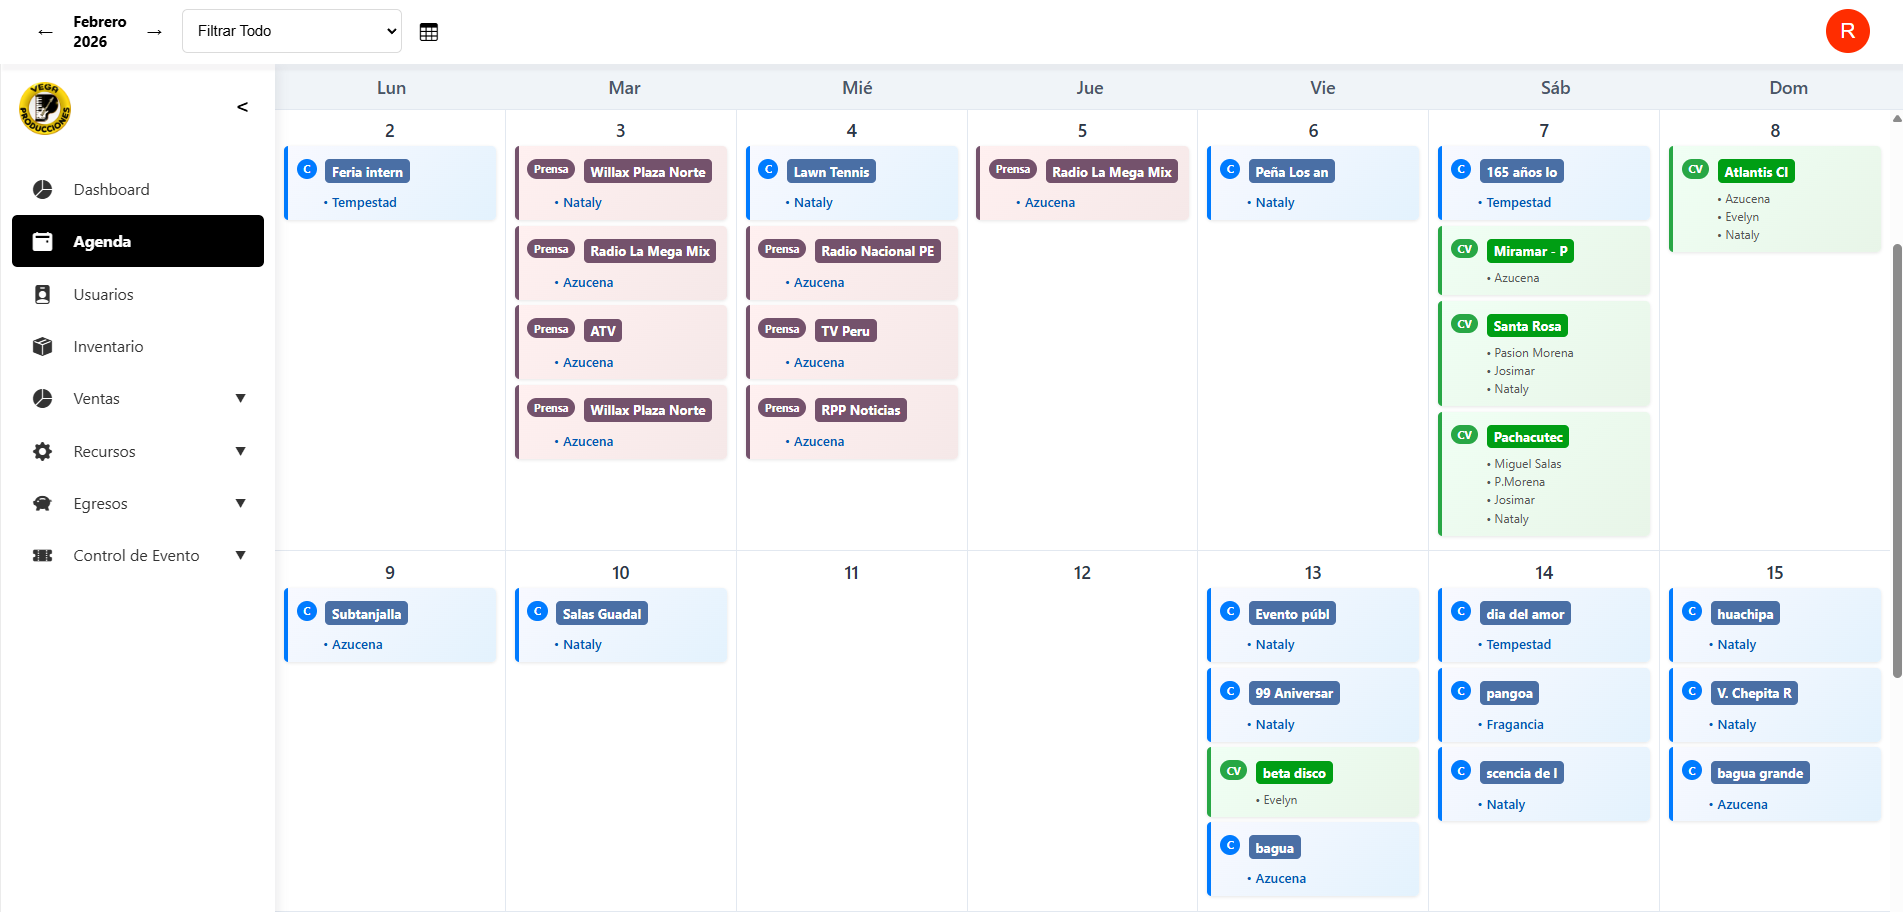
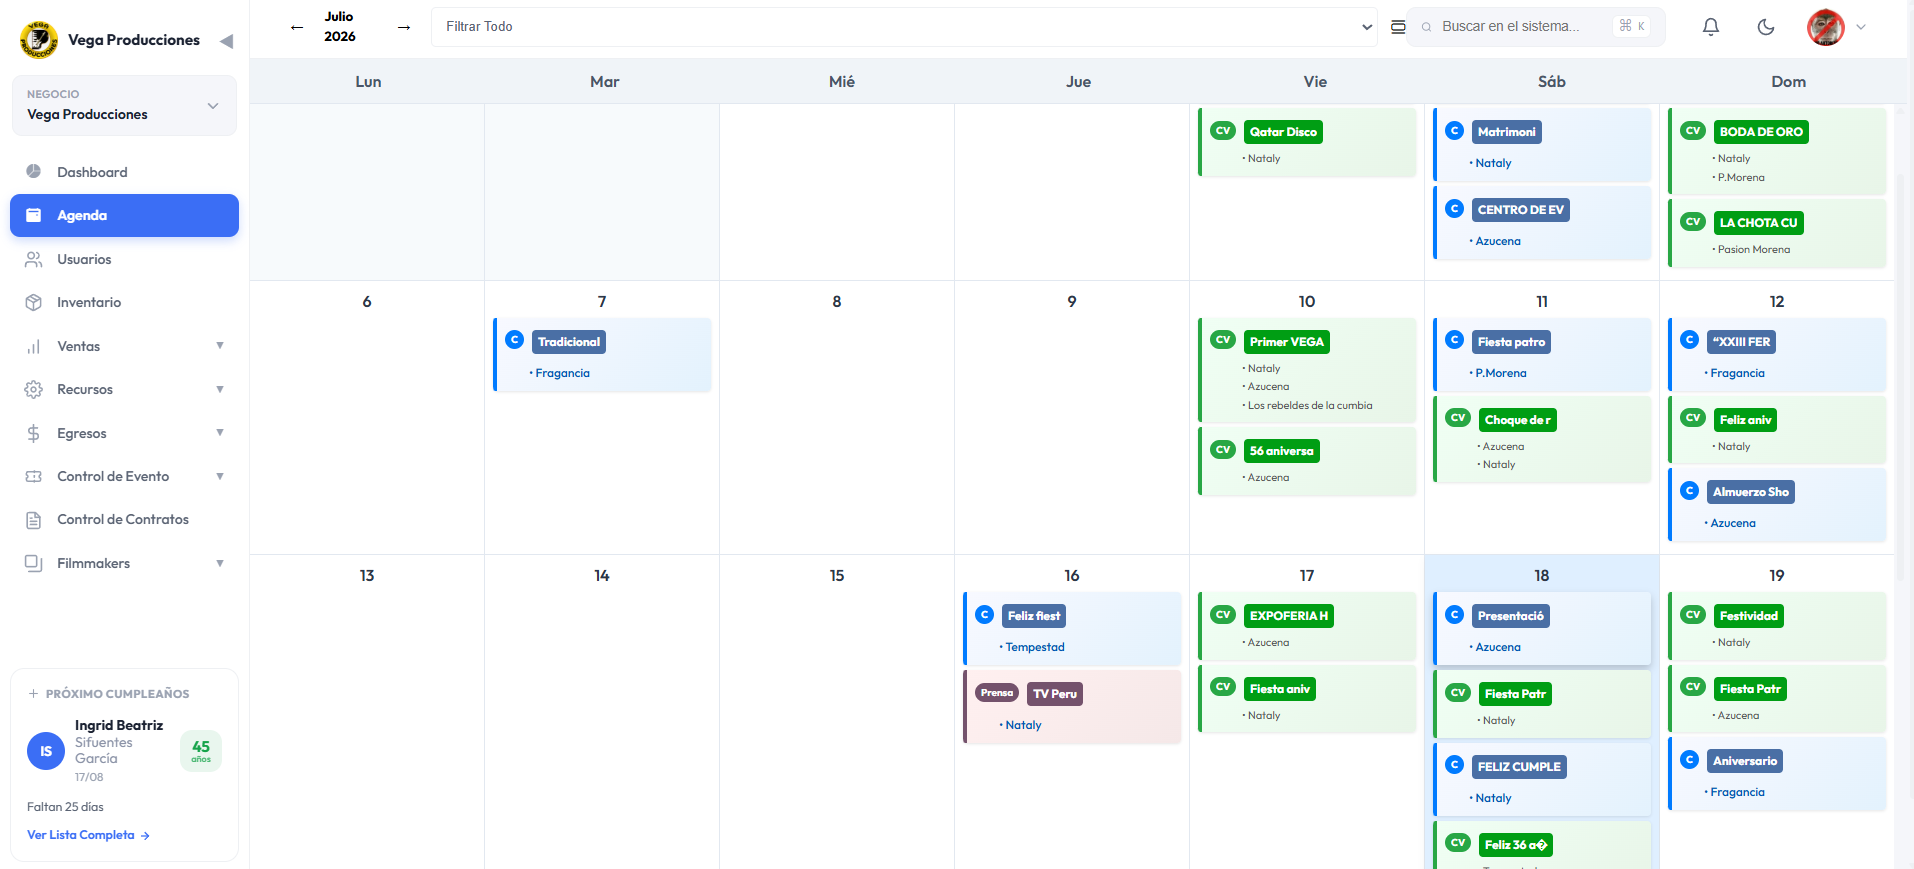
cambios!

diff --git a/index.html b/index.html
@@ -417,7 +417,7 @@
           <div class="proj-tags"><span class="proj-tag pt-php">PHP</span><span class="proj-tag pt-mysql">MySQL</span><span class="proj-tag pt-html">HTML</span><span class="proj-tag pt-css">CSS</span></div>
           <div class="proj-title">Intranet Vega Producciones</div>
           <p class="proj-desc">Intranet para gestión de eventos, con generador de contratos, cotizaciones y una agenda.</p>
-          <div class="proj-footer"><a href="https://vegaproducciones.com" target="_blank" class="proj-link">Ver proyecto →</a><span class="proj-solo-badge">solo</span></div>
+          <div class="proj-footer"><a href="https://vegaproducciones.com/v3/agenda.php" target="_blank" class="proj-link">Ver proyecto →</a><span class="proj-solo-badge">solo</span></div>
         </div>
       </div>
       <div class="proj-card">
@@ -450,7 +450,7 @@
           <div class="proj-tags"><span class="proj-tag pt-php">PHP</span><span class="proj-tag pt-mysql">Mysql</span><span class="proj-tag pt-html">HTML</span><span class="proj-tag pt-css">CSS</span></div>
           <div class="proj-title">Sistema de entradas eventos</div>
           <p class="proj-desc">Aplicación web para vender entradas para eventos de cumbia, salsa, etc.</p>
-          <div class="proj-footer"><a href="https://freedatabase.netlify.app/" target="_blank" class="proj-link">Ver proyecto →</a><span class="proj-solo-badge">solo</span></div>
+          <div class="proj-footer"><a href="https://vegaproducciones.com/ticket/" target="_blank" class="proj-link">Ver proyecto →</a><span class="proj-solo-badge">solo</span></div>
         </div>
       </div>      
       <div class="proj-card">
@@ -461,11 +461,11 @@
           <div class="proj-tags"><span class="proj-tag pt-php">PHP</span><span class="proj-tag pt-mysql">Mysql</span><span class="proj-tag pt-html">HTML</span><span class="proj-tag pt-css">CSS</span></div>
           <div class="proj-title">Pagina oficial Vega Producciones</div>
           <p class="proj-desc">Sitio web oficial de vega producciones, ofrecemos servicios de artistas, se puede cotizar y consultar.</p>
-          <div class="proj-footer"><a href="https://freedatabase.netlify.app/" target="_blank" class="proj-link">Ver proyecto →</a><span class="proj-solo-badge">solo</span></div>
+          <div class="proj-footer"><a href="https://vegaproducciones.com" target="_blank" class="proj-link">Ver proyecto →</a><span class="proj-solo-badge">solo</span></div>
         </div>
       </div>    
       
-      <div class="proj-card">
+      <!-- <div class="proj-card">
         <div class="proj-thumb">
           <img src="e6.png" alt="">
         </div>
@@ -475,7 +475,7 @@
           <p class="proj-desc">Landing page para promocionar un evento de Nataly Ramirez en Tacna Peru.</p>
           <div class="proj-footer"><a href="https://freedatabase.netlify.app/" target="_blank" class="proj-link">Ver proyecto →</a><span class="proj-solo-badge">solo</span></div>
         </div>
-      </div>    
+      </div>     -->
       
     </div>
 